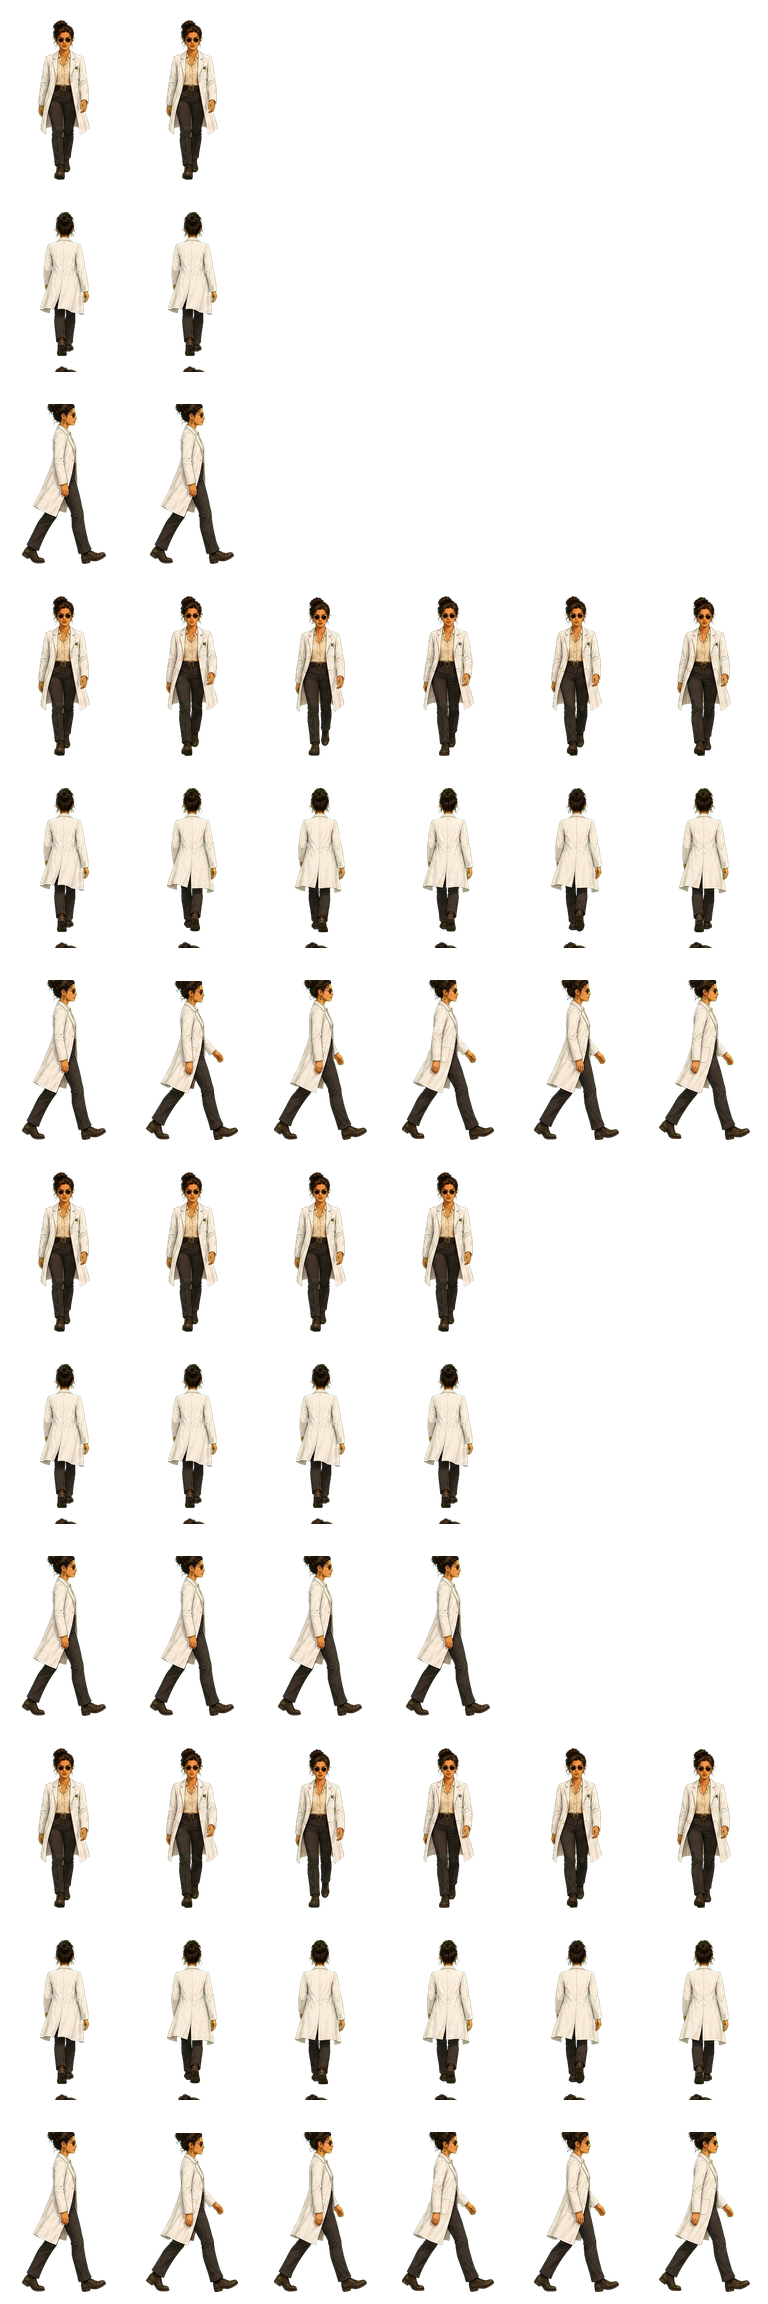
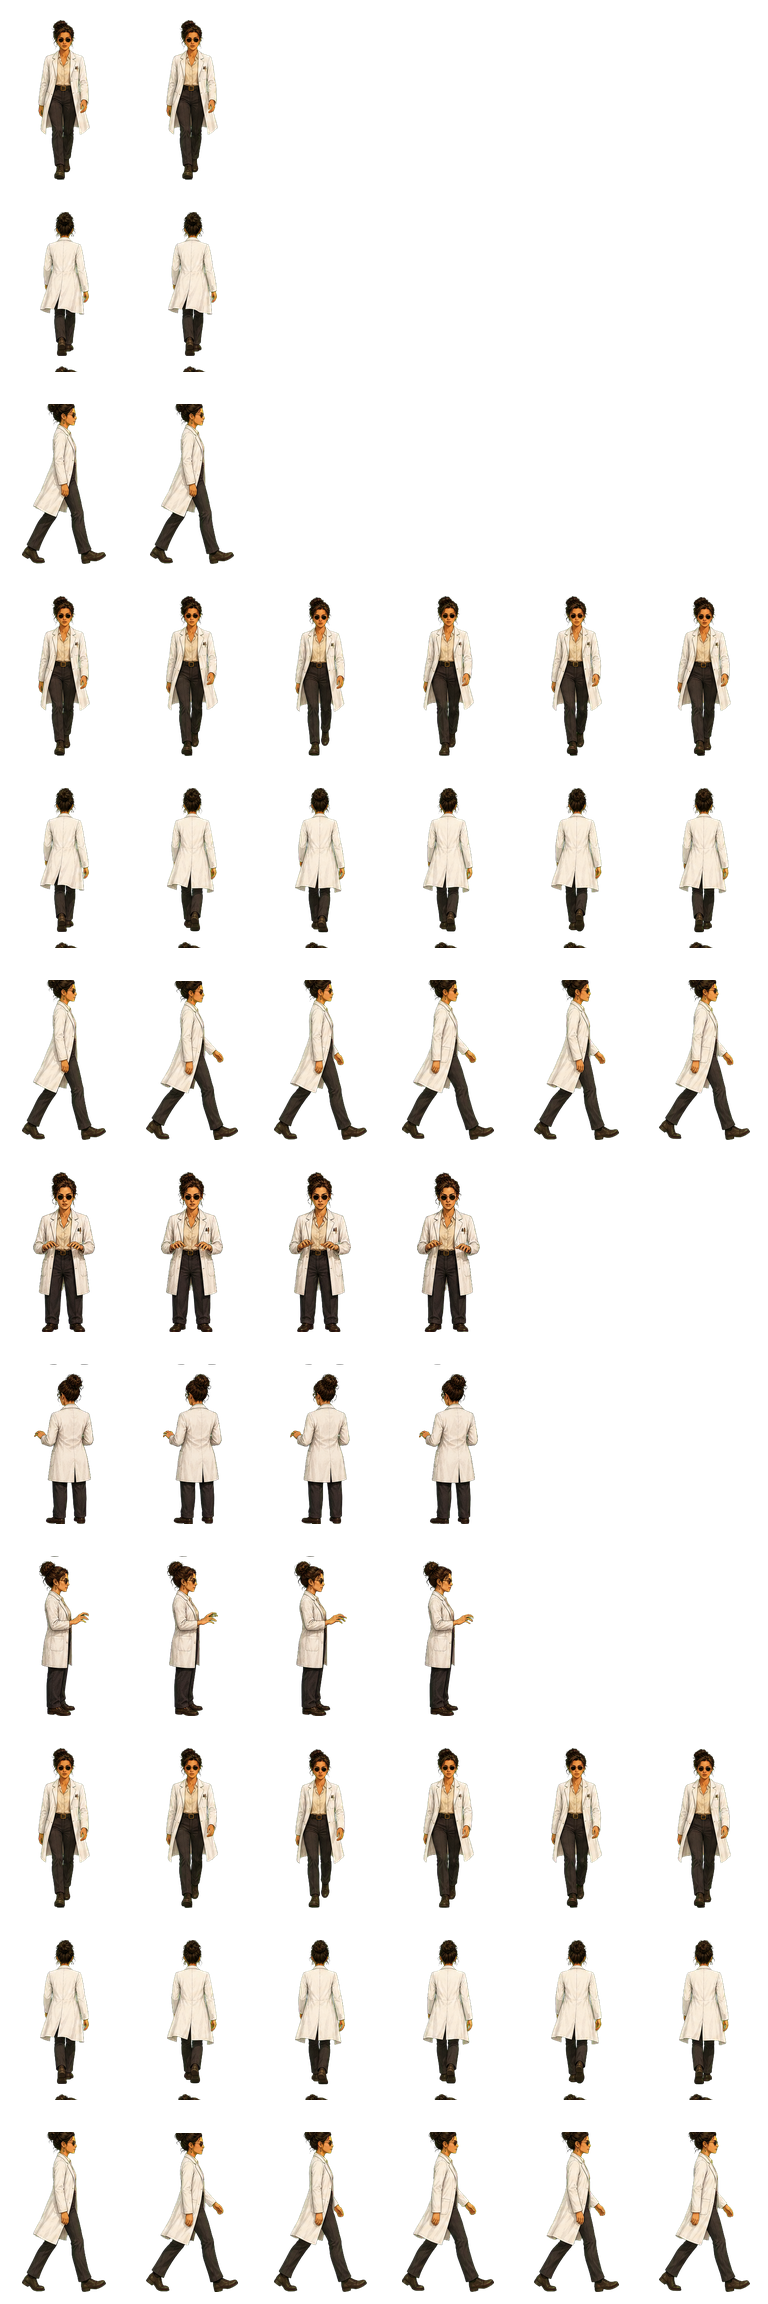
feat(game): typing (work) tracks for analista, scorer and scrittore sheets
Dedicated imagegen work sheets sliced in: agents at their desks now play
a real typing animation instead of the walk-frame fallback. Also add
crop_furniture.py, the finishing tool for upcoming imagegen furniture
(defringe + alpha-bbox crop so FurnitureNode scaling works on content,
not margins).

diff --git a/game/tools/crop_furniture.py b/game/tools/crop_furniture.py
@@ -1,0 +1,35 @@
+#!/usr/bin/env python3
+"""Rifinisce gli asset arredo di imagegen per FurnitureNode.
+
+FurnitureNode scala la texture sull'ingombro del rect: margini vuoti
+enormi rimpiccioliscono l'oggetto disegnato. Qui: defringe magenta,
+crop al bbox dell'alpha con un piccolo pad, salvataggio al path di
+destinazione (game/assets/gen-art/furniture/<kind>.png).
+
+Uso: python3 crop_furniture.py <sorgente.png> <destinazione.png> [pad]
+"""
+import sys
+
+import numpy as np
+from PIL import Image
+
+sys.path.insert(0, __file__.rsplit("/", 1)[0])
+from slice_agent_sheet import defringe_magenta  # noqa: E402
+
+
+def main() -> None:
+    src, dst = sys.argv[1], sys.argv[2]
+    pad = int(sys.argv[3]) if len(sys.argv) > 3 else 8
+    arr = defringe_magenta(np.array(Image.open(src).convert("RGBA")))
+    ys, xs = np.nonzero(arr[:, :, 3] > 24)
+    if len(ys) == 0:
+        sys.exit(f"{src}: nessun contenuto opaco")
+    y0, y1 = max(0, ys.min() - pad), min(arr.shape[0], ys.max() + 1 + pad)
+    x0, x1 = max(0, xs.min() - pad), min(arr.shape[1], xs.max() + 1 + pad)
+    out = Image.fromarray(arr[y0:y1, x0:x1])
+    out.save(dst)
+    print(f"scritto {dst} {out.size[0]}x{out.size[1]}")
+
+
+if __name__ == "__main__":
+    main()
